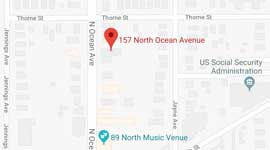
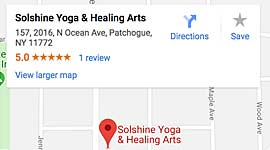
Update map image and location page now uses actual business listing map.

diff --git a/location.html b/location.html
@@ -90,14 +90,11 @@
 
 		<!-- Main Column Begin -->
 		<div class="two-thirds column">
-
-		<h5>Map - Address, Telephone</h5>
-      	<p>157 North Ocean Avenue &bull; Patchogue, New York  &bull; 11772 </p>
-		<p>Tel: <a href="tel:+6316057297">631-605-7297</a> </p>
-		  <iframe src="https://www.google.com/maps/embed?pb=!1m18!1m12!1m3!1d3021.696380682847!2d-73.01688378459325!3d40.76870217932584!2m3!1f0!2f0!3f0!3m2!1i1024!2i768!4f13.1!3m3!1m2!1s0x89e84920528211e9%3A0xa3509fa3af40a4e6!2s157+N+Ocean+Ave%2C+Patchogue%2C+NY+11772!5e0!3m2!1sen!2sus!4v1515023073350" width="600" height="450" frameborder="0" style="border:0" allowfullscreen></iframe>
-
+			<h5>Map - Address, Telephone</h5>
+			<p>157 North Ocean Avenue &bull; Patchogue, New York  &bull; 11772 </p>
+			<p>Tel: <a href="tel:+6316057297">631-605-7297</a> </p>
+			<iframe src="https://www.google.com/maps/embed?pb=!1m18!1m12!1m3!1d3021.696380682847!2d-73.01688378459325!3d40.76870217932584!2m3!1f0!2f0!3f0!3m2!1i1024!2i768!4f13.1!3m3!1m2!1s0x89e84920528293dd%3A0xd39752c21ab69a30!2sSolshine+Yoga+%26+Healing+Arts!5e0!3m2!1sen!2sus!4v1519930771545" width="600" height="450" frameborder="0" style="border:0" allowfullscreen></iframe>
 		</div>
-
 
 		<!-- Calendar -->
 		<div class="one-third column">
